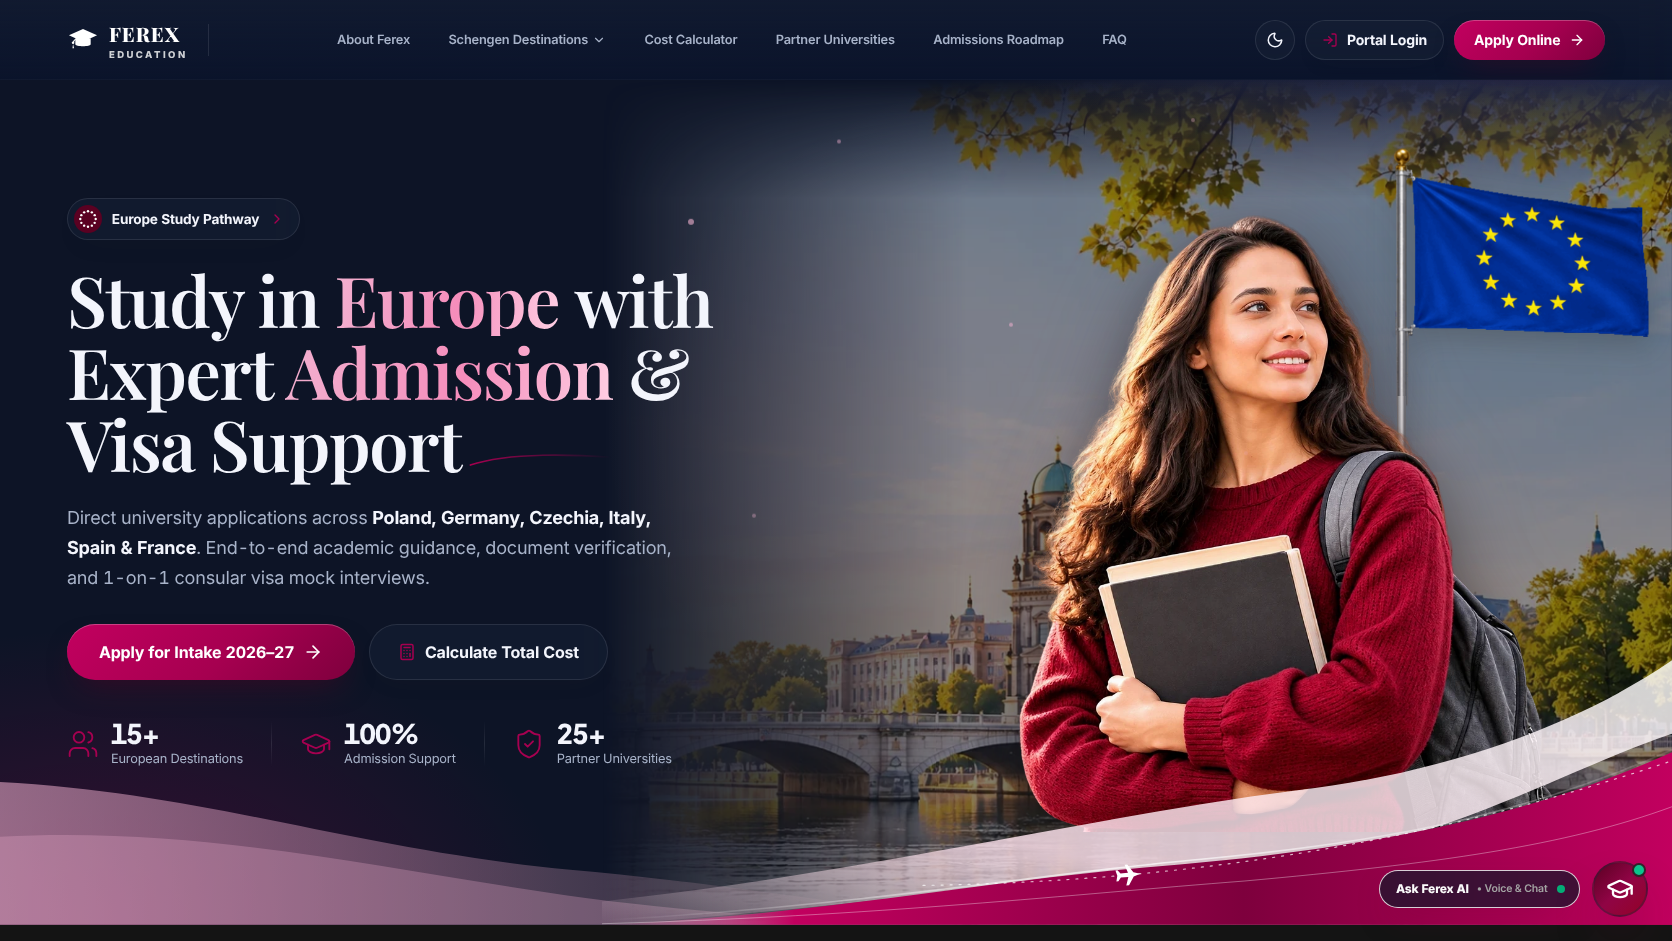
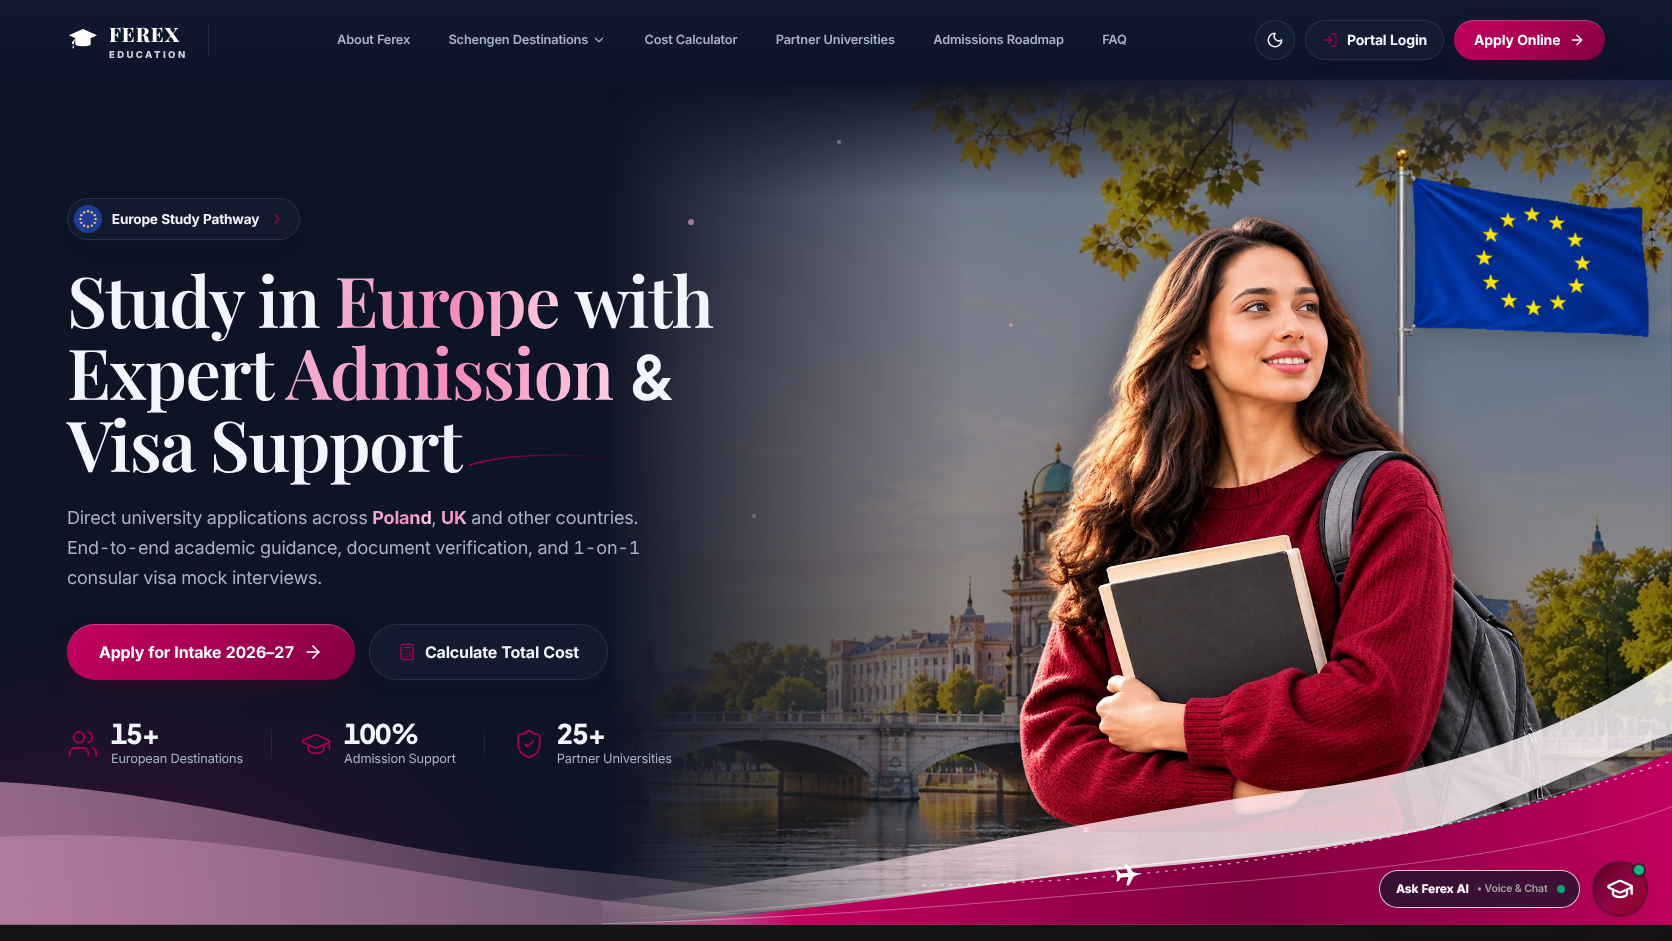
Hero: upright ampersand, highlight Poland and UK in the subtitle
Claude-Session: https://claude.ai/code/session_01Bz7DGUY85QxaBnbdS26ias

Changed region(s): [[0.0311, 0.5239, 0.4043, 0.6472], [0.3732, 0.3698, 0.4354, 0.4315], [0.0311, 0.2157, 0.0622, 0.2465]]

diff --git a/src/components/hero/LandingHero.tsx b/src/components/hero/LandingHero.tsx
@@ -41,7 +41,7 @@ export const LandingHero: React.FC<{ onApply: () => void; onCalculate: () => voi
             <motion.span className="inline-block fx-em" {...rise(0.5)}>Europe</motion.span>
             <motion.span className="inline-block" {...rise(0.6)}>&nbsp;with</motion.span>
           </span>
-          <motion.span className="block whitespace-nowrap" {...rise(0.7)}>Expert <span className="fx-em">Admission</span> &amp;</motion.span>
+          <motion.span className="block whitespace-nowrap" {...rise(0.7)}>Expert <span className="fx-em">Admission</span> <span style={{ fontFamily: "'Plus Jakarta Sans', 'Inter', system-ui, sans-serif", fontWeight: 700, fontStyle: 'normal', fontSize: '0.86em', letterSpacing: 0 }} aria-label="and">&amp;</span></motion.span>
           <motion.span className="block whitespace-nowrap relative w-fit mx-auto lg:mx-0" {...rise(0.8)}>
             Visa Support
             <svg aria-hidden viewBox="0 0 220 24" className="absolute left-full top-[62%] ml-2 w-24 sm:w-36 hidden sm:block overflow-visible">
@@ -52,7 +52,7 @@ export const LandingHero: React.FC<{ onApply: () => void; onCalculate: () => voi
         </h1>
 
         <motion.p className="mt-6 text-base sm:text-lg leading-[1.65] fx-muted max-w-[38rem] mx-auto lg:mx-0" {...rise(0.95)}>
-          Direct university applications across <strong className="font-bold" style={{ color: 'var(--fx-text)' }}>Poland, Germany, Czechia, Italy, Spain &amp; France</strong>. End-to-end academic guidance, document verification, and 1-on-1 consular visa mock interviews.
+          Direct university applications across <strong className="font-bold fx-em">Poland</strong>, <strong className="font-bold fx-em">UK</strong> and other countries. End-to-end academic guidance, document verification, and 1-on-1 consular visa mock interviews.
         </motion.p>
 
         <motion.div className="mt-8 flex flex-wrap items-center justify-center lg:justify-start gap-3.5" {...rise(1.1)}>
